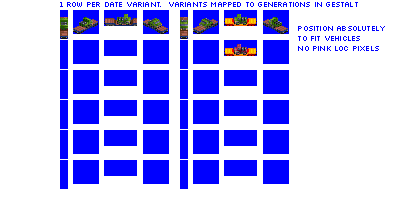
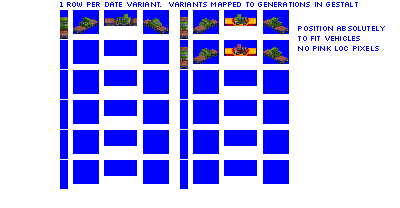
Change: stub in Vehicles car

Changed region(s): [[0.45, 0.2019, 0.54, 0.3462], [0.66, 0.2308, 0.72, 0.3173]]

diff --git a/src/vehicles/well_cars.py b/src/vehicles/well_cars.py
@@ -9,7 +9,6 @@ def main():
                              subtype='A')
 
     consist.add_unit(type=WellCar,
-                     vehicle_length=4,
                      chassis='2_axle_filled_16px')
 
     consist = WellCarConsist(roster='pony',
@@ -18,7 +17,6 @@ def main():
                              subtype='A')
 
     consist.add_unit(type=WellCar,
-                     vehicle_length=4,
                      chassis='2_axle_filled_16px')
 
     consist = WellCarConsist(roster='pony',
@@ -27,7 +25,6 @@ def main():
                              subtype='B')
 
     consist.add_unit(type=WellCar,
-                     vehicle_length=6,
                      chassis='4_axle_filled_24px')
 
     consist = WellCarConsist(roster='pony',
@@ -36,9 +33,9 @@ def main():
                              subtype='B')
 
     consist.add_unit(type=WellCar,
-                     vehicle_length=6,
                      chassis='4_axle_filled_24px')
 
+    """
     consist = WellCarConsist(roster='pony',
                              base_numeric_id=2870,
                              gen=4,
@@ -46,6 +43,7 @@ def main():
 
     consist.add_unit(type=WellCar,
                      vehicle_length=8)
+    """
 
     consist = WellCarConsist(roster='pony',
                              base_numeric_id=2880,
@@ -53,7 +51,6 @@ def main():
                              subtype='A')
 
     consist.add_unit(type=WellCar,
-                     vehicle_length=4,
                      chassis='2_axle_filled_16px')
 
     consist = WellCarConsist(roster='pony',
@@ -62,9 +59,9 @@ def main():
                              subtype='B')
 
     consist.add_unit(type=WellCar,
-                     vehicle_length=6,
                      chassis='4_axle_filled_24px')
 
+    """
     consist = WellCarConsist(roster='pony',
                              base_numeric_id=2690,
                              gen=5,
@@ -72,7 +69,7 @@ def main():
 
     consist.add_unit(type=WellCar,
                      vehicle_length=8)
-
+    """
     # no gen 6 supplies cars, cap to gen 5 in Pony
 
     #--------------- antelope ----------------------------------------------------------------------

diff --git a/src/train.py b/src/train.py
@@ -1691,11 +1691,14 @@ class VehicleTransporterCarConsist(CarConsist):
         self.base_id = 'vehicle_transporter_car'
         super().__init__(**kwargs)
         self.class_refit_groups = [] # no classes, use explicit labels
-        self.label_refits_allowed = ['VEHI']
+        self.label_refits_allowed = ['VEHI', 'ENSP', 'FMSP']
         self.label_refits_disallowed = []
         self.default_cargos = ['VEHI']
-        self.buy_cost_adjustment_factor = 1.2
         self._intro_date_days_offset = global_constants.intro_date_offsets_by_role_group['non_core_wagons']
+        # !! flipping not currently allowed as don't know if asymmetric sprites support is working (might be fine?)
+        self.allow_flip = True # hax test because template failing to return correct cargo sprites
+        # Graphics configuration
+        self.gestalt_graphics = GestaltGraphicsVisibleCargo(heavy_items=True)
 
 
 class WellCarConsist(CarConsist):

diff --git a/src/gestalt_graphics/gestalt_graphics.py b/src/gestalt_graphics/gestalt_graphics.py
@@ -169,9 +169,9 @@ class GestaltGraphicsVisibleCargo(GestaltGraphics):
     # cargo labels can be repeated for different sprites, they'll be used selectively by vehicle types and/or randomised as appropriate
     # keep alphabetised for general quality-of-life
     # DFLT label is a hack to support cargos with no specific sprites (including unknown cargos), and should not be added to cargo translation table
-    heavy_items_sprites_to_cargo_labels_maps = {'trucks_1': ['ENSP', 'FMSP'],
+    heavy_items_sprites_to_cargo_labels_maps = {'tarps_2cc_1': ['DFLT'],
                                                 'tractors_1': ['FMSP'],
-                                                'tarps_2cc_1': ['DFLT']}  # see note on use of DFLT above
+                                                'trucks_1': ['ENSP', 'FMSP', 'VEHI']}  # see note on use of DFLT above
 
 
 class GestaltGraphicsBoxCarOpeningDoors(GestaltGraphics):

diff --git a/src/gestalt_graphics/pipelines.py b/src/gestalt_graphics/pipelines.py
@@ -685,7 +685,8 @@ class ExtendSpriterowsForCompositedSpritesPipeline(Pipeline):
                                      10 + ((cargo_spriterow_offset + 1) * graphics_constants.spriterow_height))
 
             cargo_image = Image.open(cargo_sprites_input_path).crop(crop_box_cargo_source)
-            # cargo_image.show()
+            #if cargo_filename == 'trucks_1_32px':
+                #cargo_image.show()
 
             # the cargo image has false colour pixels for the chassis, to aid drawing; remove these by converting to white, also convert any blue to white
             cargo_image = cargo_image.point(lambda i: 255 if (i in range(178, 192) or i == 0) else i)

diff --git a/src/vehicles/vehicle_transporter_cars.py b/src/vehicles/vehicle_transporter_cars.py
@@ -6,9 +6,9 @@ def main():
     # no gen 1 or 2, straight to gen 3
 
     consist = VehicleTransporterCarConsist(roster='pony',
-                                           base_numeric_id=1530,
-                                           gen=3,
-                                           subtype='A')
+                                           base_numeric_id=3570,
+                                           gen=5,
+                                           subtype='C')
 
     consist.add_unit(type=FreightCar,
-                     vehicle_length=8)
+                     chassis='4_axle_filled_32px')

diff --git a/src/global_constants.py b/src/global_constants.py
@@ -29,8 +29,8 @@ buy_menu_sort_order_wagons = ['alignment_car',
                               'edibles_tank_car',
                               'reefer_car',
                               'fruit_veg_car',
-                              'well_car',
-                              #'vehicle_transporter_car',
+                              #'well_car',
+                              'vehicle_transporter_car',
                               #'torpedo_car',
                               'caboose_car']
 

diff --git a/src/iron_horse.py b/src/iron_horse.py
@@ -142,11 +142,8 @@ tank_cars.main()
 from vehicles import tarpaulin_cars
 tarpaulin_cars.main()
 
-"""
-# commented out for 2.0 alpha
 from vehicles import vehicle_transporter_cars
 vehicle_transporter_cars.main()
-"""
 
 """
 # commented out for 2.0 alpha

diff --git a/src/polar_fox/constants.py b/src/polar_fox/constants.py
@@ -31,7 +31,6 @@ cargo_labels = ['PASS', # pax first
                 'MNSP',
                 'PAPR',
                 'WDPR',
-                'VEHI',
                 'COPR',
                 'DYES',
                 'OIL_',
